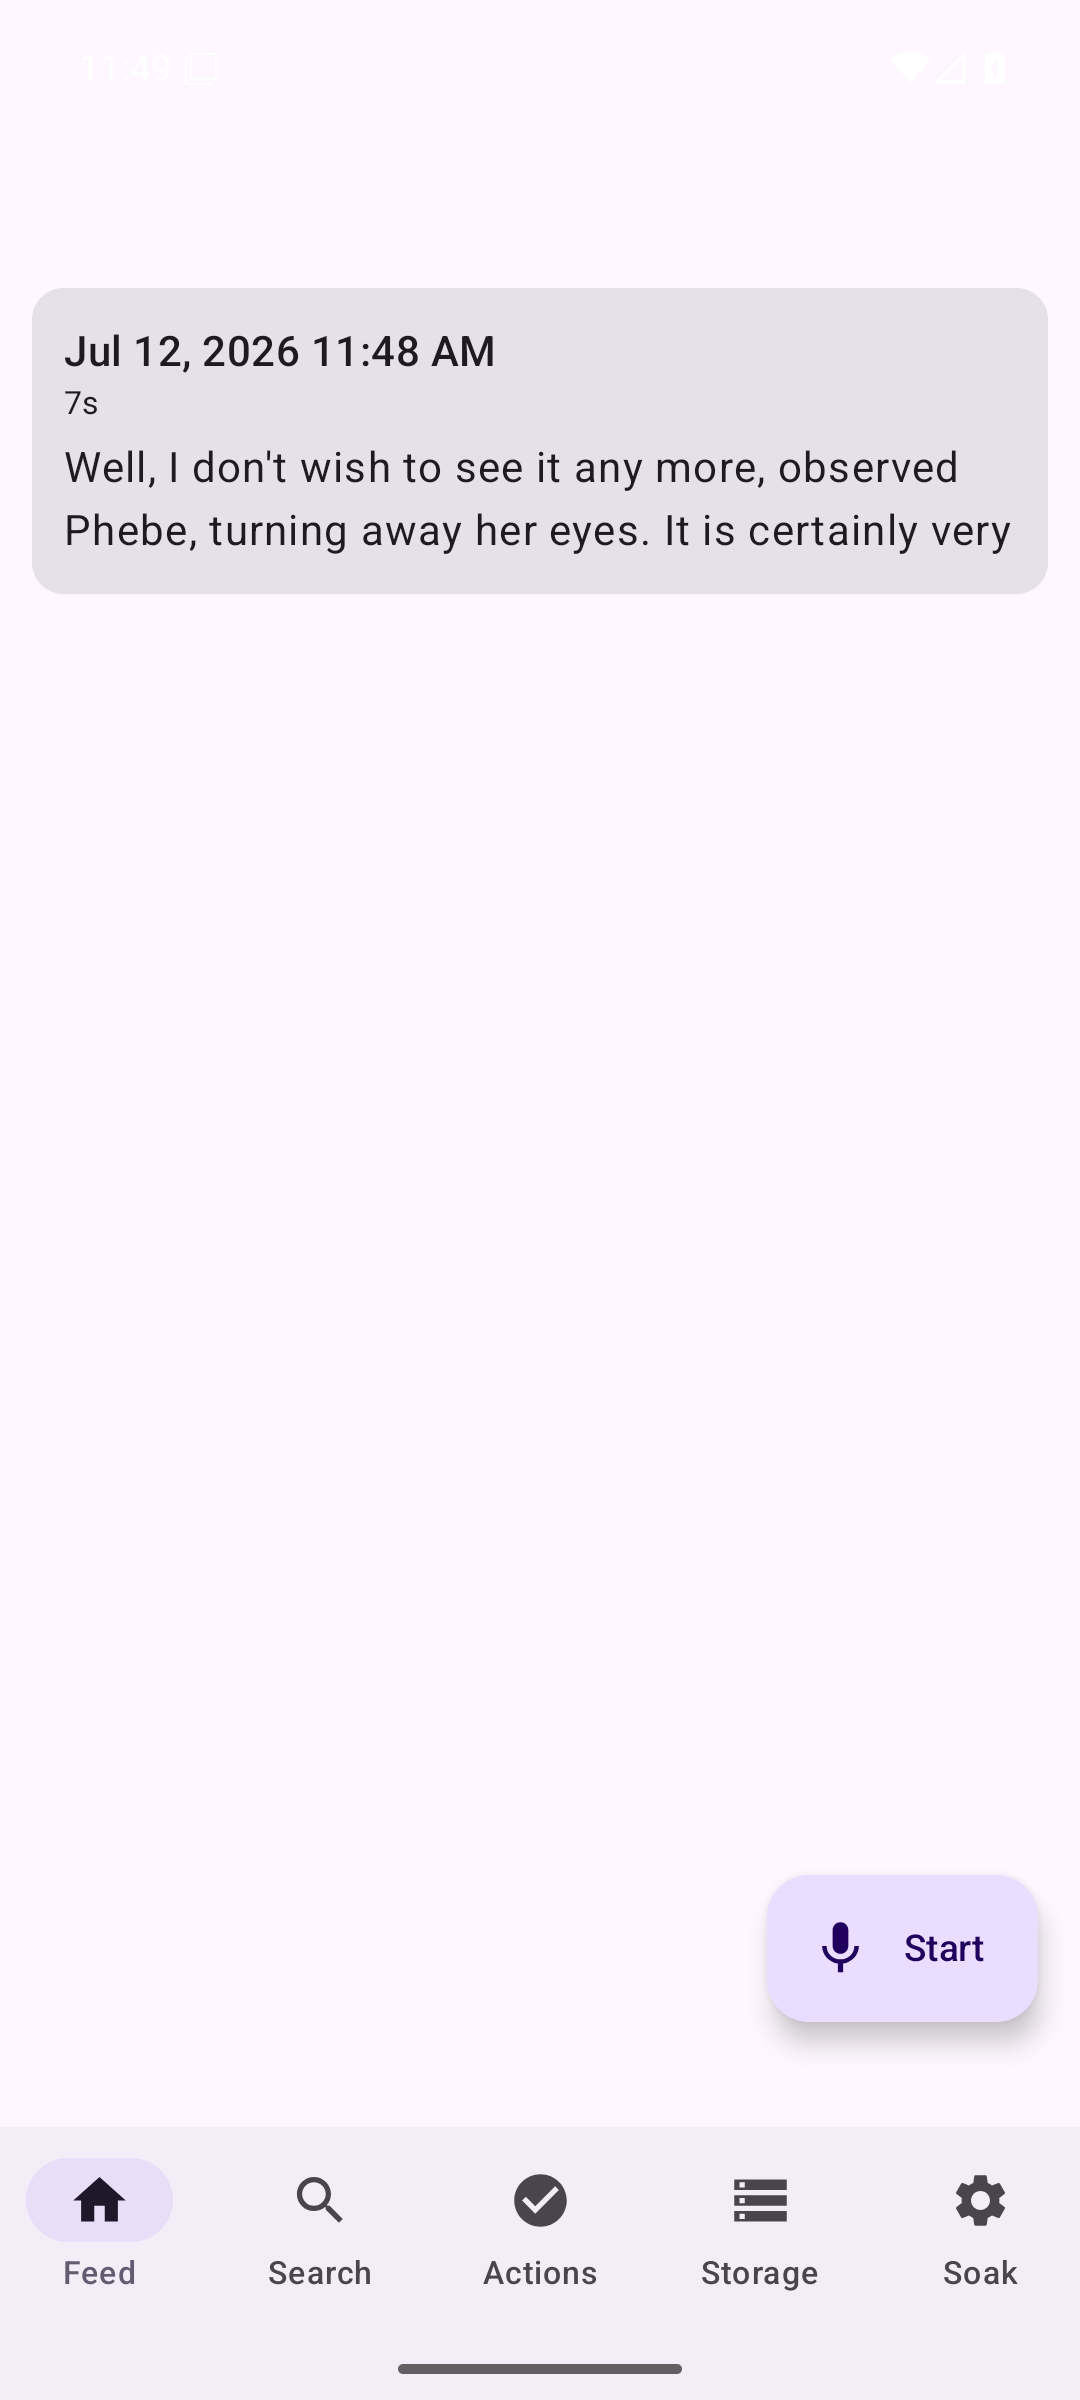
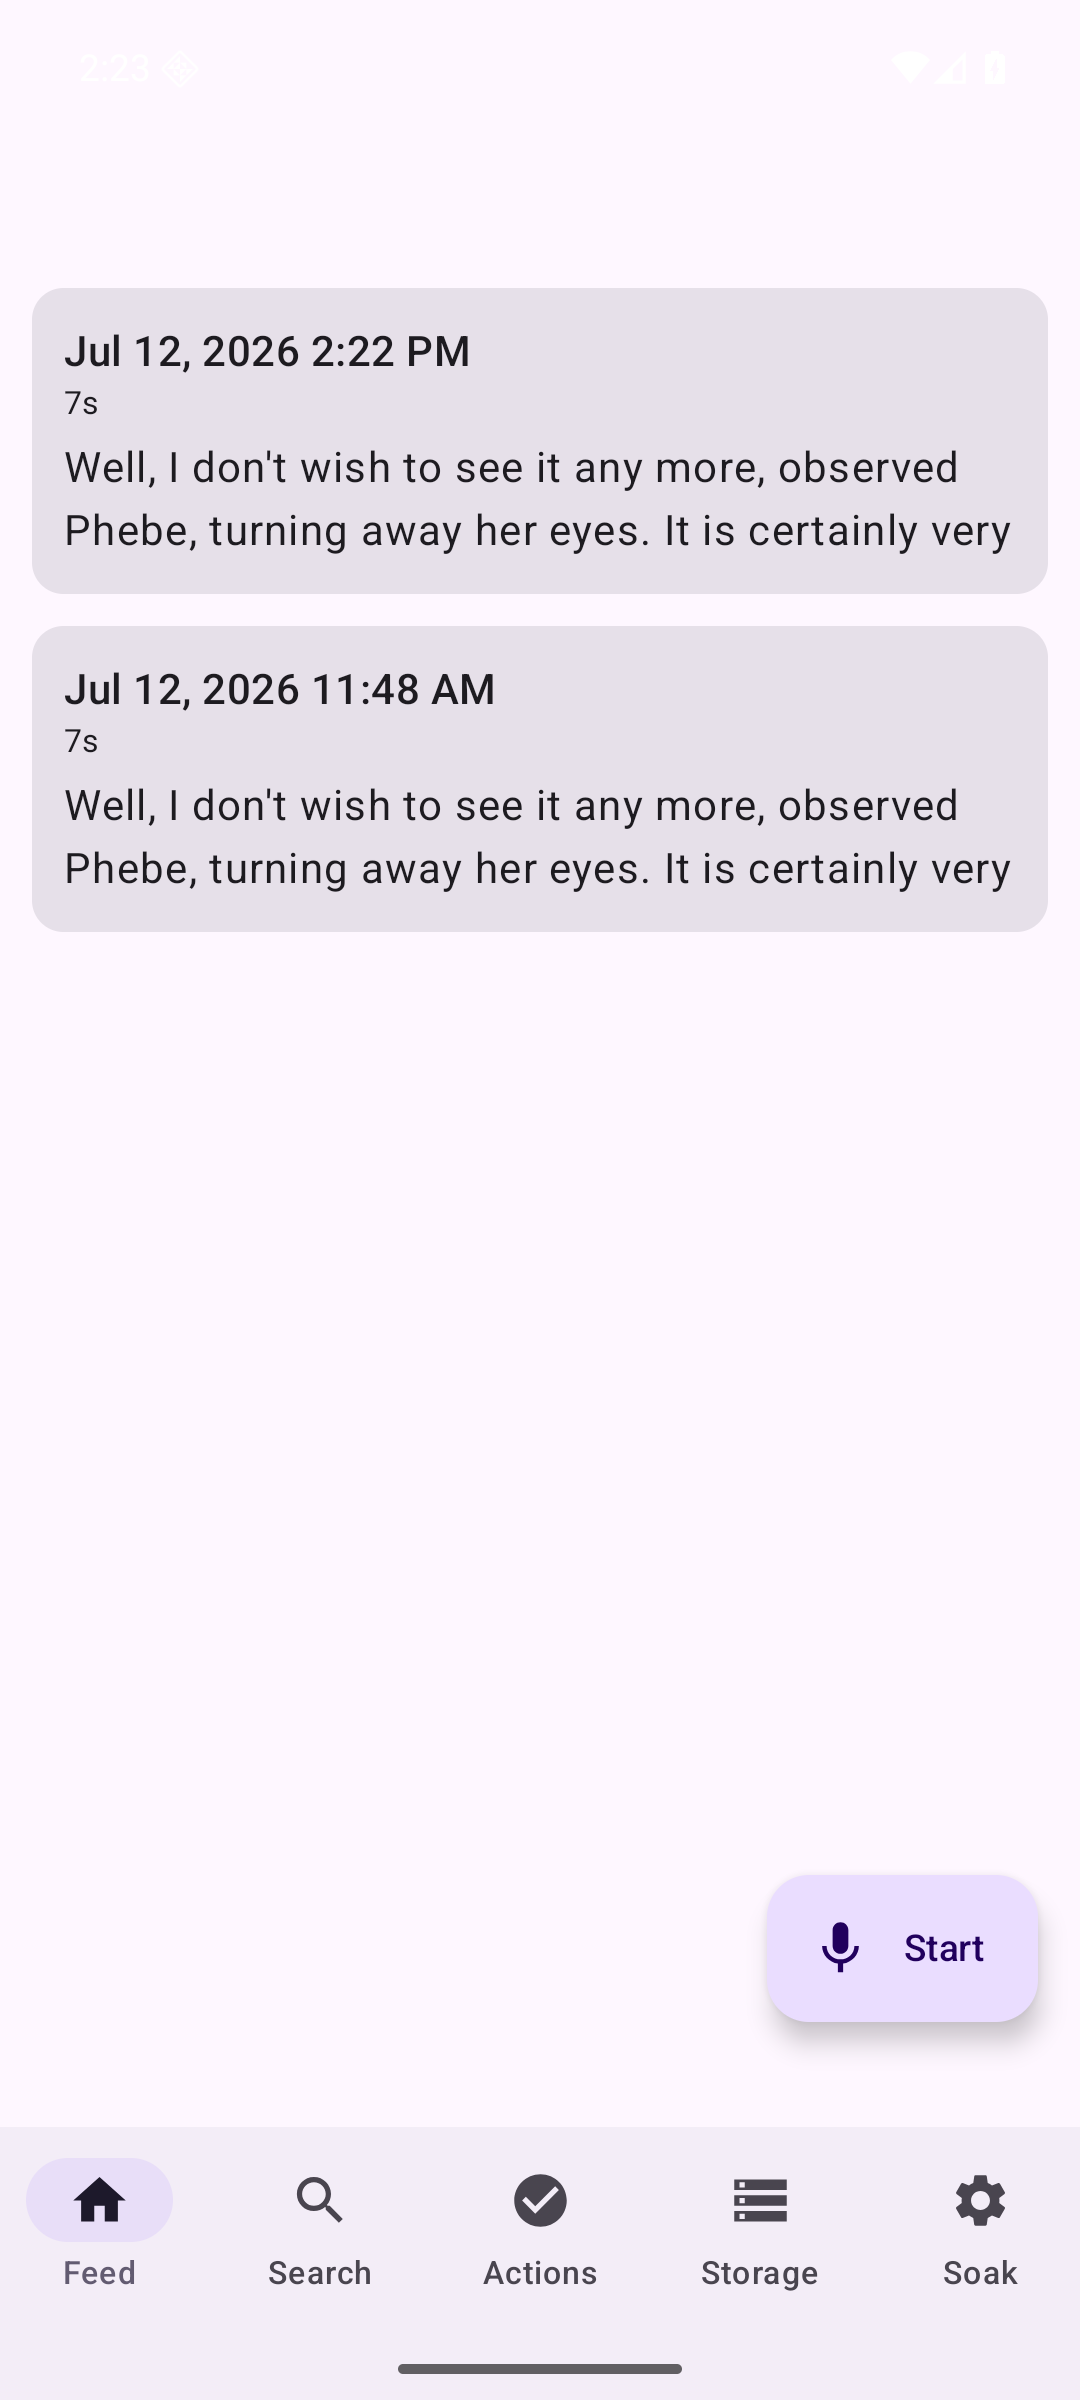
fix(build): regenerate UniFFI bindings in build-android-libs.sh; script/docs nits
- build-android-libs.sh gains a Step 0 (skipped in --verify-only) that
  regenerates the git-ignored UniFFI Kotlin bindings
  (android/app/src/main/java/com/recall/core/) via a host debug cdylib +
  `cargo run -p recall-core --bin uniffi-bindgen`, fixing the fresh-clone
  build which previously had nothing to produce them.
- sherpa tarball download uses a .tmp + mv pattern so a partial/interrupted
  download self-heals on re-run instead of being mistaken for a cached file.
- e2e-emulator.sh: drop the vestigial `mkdir -p /sdcard/Download` (the wav is
  pushed to the app's external-files dir, not Download).
- README: fresh-clone gotcha now covers bindings regeneration; test count
  corrected to 54 (53 lib + 1 ffi_smoke); note the known limit that audio
  arriving during a >10s finalize can still overrun the capture buffer
  (core-side worker-thread finalize is future work).

Changed region(s): [[0.0611, 0.2812, 0.9472, 0.375], [0.275, 0.125, 0.4583, 0.1562]]

diff --git a/README.md b/README.md
@@ -66,12 +66,20 @@ Still device-gated (needs the real Samsung, not an emulator):
 - ⏳ **Real-mic sanity** — start capture from the Feed FAB and speak; the
   emulator e2e drives the same code path but with file audio.
 
+Known limits (cheap mitigations shipped, not full fixes):
+
+- Audio arriving while a long conversation finalizes (inline ASR runs under the
+  engine's mutex) can still overrun the `AudioRecord` buffer if the finalize
+  takes longer than ~10s — the capture-side buffer was sized up to absorb
+  short stalls, but core-side worker-thread finalize (so `pushAudio` never
+  blocks on ASR) is future work.
+
 ## Build
 
 Host (core only — no device needed):
 
 ```sh
-cargo test                    # 50 unit tests
+cargo test                    # 54 unit tests (53 lib + 1 ffi_smoke)
 cargo test --features onnx    # + integration tests against real models (run scripts/fetch-models.sh first)
 ```
 
@@ -83,11 +91,16 @@ scripts/build-android-libs.sh        # cross-compiles librecall_core.so + stages
 cd android && ./gradlew :app:assembleDebug
 ```
 
-> **Fresh clone gotcha:** `third_party/` and `android/app/src/main/jniLibs/` are
-> git-ignored build artifacts. You **must** run `scripts/build-android-libs.sh`
-> before the Gradle build, or the APK will silently build *without* native libs
-> (Gradle does not fail on an empty jniLibs dir) and crash at first FFI call.
-> Requires `ANDROID_NDK_HOME` (NDK r27+), `cargo-ndk`, and the
+> **Fresh clone gotcha:** `third_party/`, `android/app/src/main/jniLibs/`, and
+> `android/app/src/main/java/com/recall/core/` (the UniFFI-generated Kotlin
+> bindings) are all git-ignored build artifacts. You **must** run
+> `scripts/build-android-libs.sh` before the Gradle build — it now regenerates
+> the Kotlin bindings (via `cargo run -p recall-core --bin uniffi-bindgen`) as
+> its first step, in addition to cross-compiling and staging the native libs.
+> Skipping it means the APK will silently build *without* native libs (Gradle
+> does not fail on an empty jniLibs dir) and crash at first FFI call — or, on a
+> truly fresh clone, fail to compile at all against the missing `com.recall.core`
+> bindings. Requires `ANDROID_NDK_HOME` (NDK r27+), `cargo-ndk`, and the
 > `aarch64-linux-android` / `x86_64-linux-android` Rust targets.
 
 Emulator end-to-end (headless, needs `ANDROID_HOME` + KVM):
